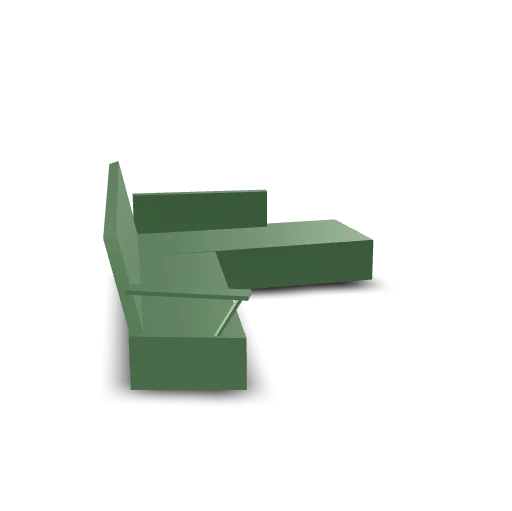
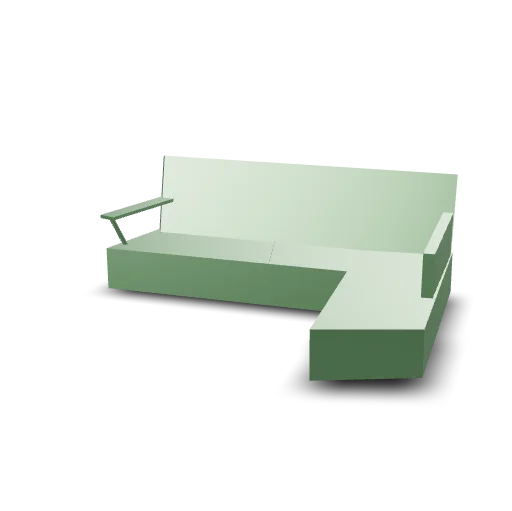
Add files via upload

Changed region(s): [[0.1875, 0.2935, 0.9062, 0.7926]]

diff --git a/asshets/banc/index.html b/asshets/banc/index.html
@@ -9,7 +9,7 @@
   </head>
   <body>
     <!-- <model-viewer> HTML element -->
-    <model-viewer src="banc.glb" ar ar-modes="webxr scene-viewer quick-look" camera-controls poster="poster.webp" shadow-intensity="2" exposure="0.47" shadow-softness="1" auto-rotate camera-orbit="-147.4deg 74.17deg 27.83m" field-of-view="30deg">
+    <model-viewer src="https://cdn.glitch.global/e3f8a339-f291-419f-ba15-71f42b766c4d/banc.glb?v=1685956434743" ar ar-modes="webxr scene-viewer quick-look" camera-controls poster="poster.webp" shadow-intensity="2" exposure="0.44" shadow-softness="1" camera-orbit="197.9deg 72.9deg 27.83m" field-of-view="30deg">
       <div class="progress-bar hide" slot="progress-bar">
           <div class="update-bar"></div>
       </div>
@@ -19,7 +19,7 @@
       <div id="ar-prompt">
           <img src="ar_hand_prompt.png">
       </div>
-    </model-viewer>  
+    </model-viewer>
     <script src="script.js"></script>
     <!-- Loads <model-viewer> for browsers: -->
     <script type="module" src="https://ajax.googleapis.com/ajax/libs/model-viewer/3.0.1/model-viewer.min.js"></script>

diff --git a/models.html b/models.html
@@ -45,7 +45,7 @@
             <img src="asshets/fuckingbed/ar_hand_prompt.png">
         </div>
       </model-viewer>
-      <model-viewer src="https://cdn.glitch.global/e3f8a339-f291-419f-ba15-71f42b766c4d/banc.glb?v=1685955789529" ar ar-modes="webxr scene-viewer quick-look" camera-controls poster="asshets/banc/poster.webp" shadow-intensity="2" exposure="0.47" shadow-softness="1" auto-rotate camera-orbit="-147.4deg 74.17deg 27.83m" field-of-view="30deg">
+      <model-viewer src="https://cdn.glitch.global/e3f8a339-f291-419f-ba15-71f42b766c4d/banc.glb?v=1685956434743" ar ar-modes="webxr scene-viewer quick-look" camera-controls poster="asshets/banc/poster.webp" shadow-intensity="2" exposure="0.47" shadow-softness="1" auto-rotate camera-orbit="-147.4deg 74.17deg 27.83m" field-of-view="30deg">
         <div class="progress-bar hide" slot="progress-bar">
             <div class="update-bar"></div>
         </div>

diff --git a/asshets/fuckingbed/index.html b/asshets/fuckingbed/index.html
@@ -9,7 +9,7 @@
   </head>
   <body>
     <!-- <model-viewer> HTML element -->
-    <model-viewer src="https://cdn.glitch.global/e3f8a339-f291-419f-ba15-71f42b766c4d/very_bed1.glb?v=1685890336363" ar ar-modes="webxr scene-viewer quick-look" camera-controls poster="poster.webp" shadow-intensity="2" exposure="0.66" shadow-softness="1" camera-orbit="-157.9deg 73.33deg 33.18m" field-of-view="30deg" auto-rotate>
+    <model-viewer src="https://cdn.glitch.global/e3f8a339-f291-419f-ba15-71f42b766c4d/very_bed1.glb?v=1685890336363" ar ar-modes="webxr scene-viewer quick-look" camera-controls poster="poster.webp" shadow-intensity="2" exposure="0.66" shadow-softness="0" camera-orbit="-157.9deg 73.33deg 33.18m" field-of-view="30deg" auto-rotate>
       <div class="progress-bar hide" slot="progress-bar">
           <div class="update-bar"></div>
       </div>
